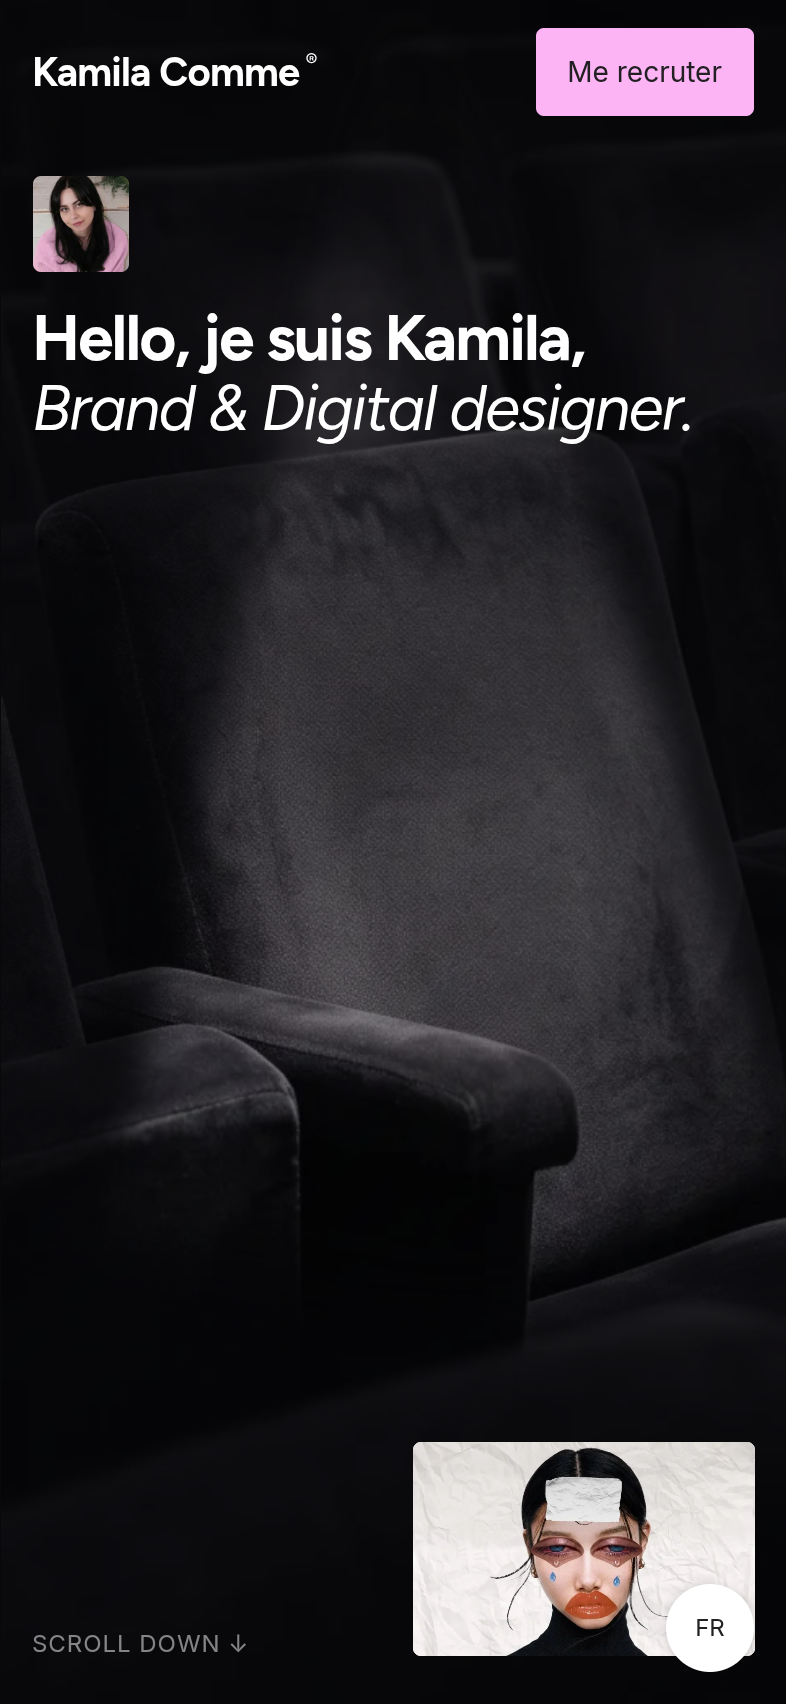
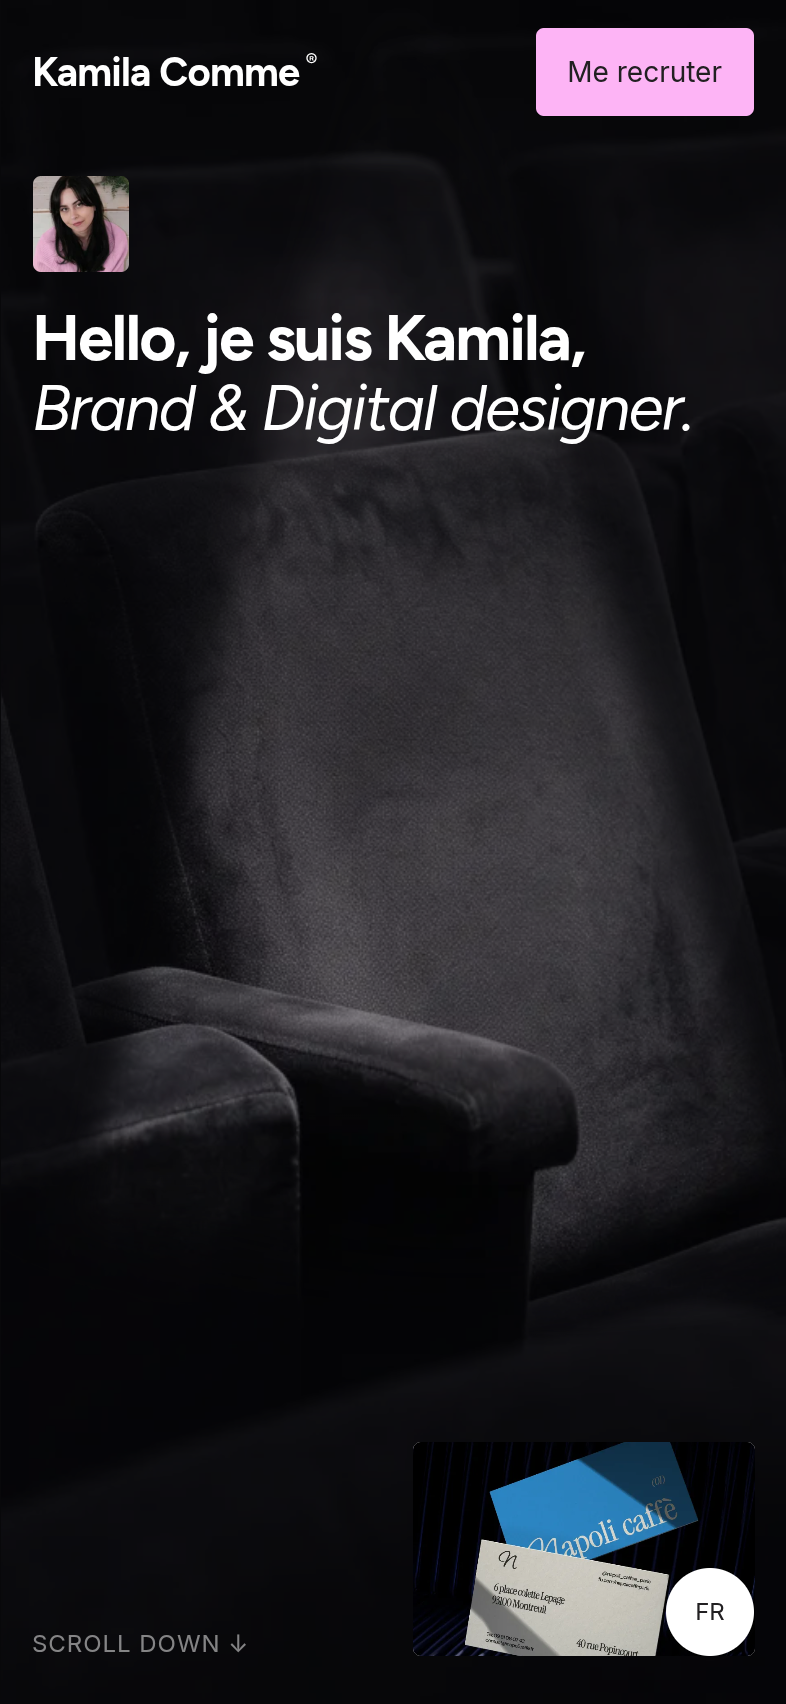
fix: align mobile language switcher with hero media

Changed region(s): [[0.5191, 0.8398, 0.9771, 0.9953], [0.1221, 0.6532, 0.1832, 0.6843], [0.1832, 0.5599, 0.2137, 0.591]]

diff --git a/portfolio-controller.js b/portfolio-controller.js
@@ -587,6 +587,16 @@ class Component extends DCLogic {
         // resolve their own fixed gutters before this value is copied to the page root.
         const pageGutter = parseFloat(getComputedStyle(this.nav).getPropertyValue("--kc-nav-gutter"));
         if (Number.isFinite(pageGutter)) document.documentElement.style.setProperty("--kc-page-gutter", pageGutter.toFixed(3) + "px");
+        // The mobile Hero preview sits 24px above the phone frame's bottom edge,
+        // while the mobile page gutter is 16px. Keep the fixed language button on
+        // that existing preview edge; desktop/tablet already use the shared gutter.
+        let switchBottomGutter = pageGutter;
+        const mobilePreview = mobile && this.mHero && this.mHero.querySelector(".kc-mobile-hero-slideshow");
+        if (mobilePreview) {
+          const previewInset = parseFloat(getComputedStyle(mobilePreview).bottom);
+          if (Number.isFinite(previewInset)) switchBottomGutter = previewInset;
+        }
+        if (Number.isFinite(switchBottomGutter)) document.documentElement.style.setProperty("--kc-language-bottom-gutter", switchBottomGutter.toFixed(3) + "px");
         // the phone / tablet frame is centred in the window — the navbar has to ride
         // its top edge, not the window's, otherwise it floats above the design
         const boxH = mobile ? (this.devH ? this.devH * kFit : this.vhNow())

diff --git a/styles/language-switch.css b/styles/language-switch.css
@@ -2,7 +2,7 @@
   position: fixed;
   z-index: 510;
   right: calc(var(--kc-page-gutter, 32px) + env(safe-area-inset-right, 0px));
-  bottom: calc(var(--kc-page-gutter, 32px) + env(safe-area-inset-bottom, 0px));
+  bottom: calc(var(--kc-language-bottom-gutter, var(--kc-page-gutter, 32px)) + env(safe-area-inset-bottom, 0px));
   display: inline-flex;
   width: 44px;
   height: 44px;

diff --git a/docs/PROJECT-STATUS.md b/docs/PROJECT-STATUS.md
@@ -51,7 +51,7 @@ Phase 5 architecture and incremental implementation sequence are documented in [
 
 **10A read-only responsive design research input:** The user's Figma page [Responsive — node 408:8055](https://www.figma.com/design/9vt2ATXB0UTz1sPESCNmWh/For-Claude?node-id=408-8055) is a design input, not an instruction to implement every frame. Once M10A is authorized, inspect its progressive Navbar, Hero, Tickets, About-card and Contact/Footer stages. Extract actual stage and DOM structures, annotations, Auto Layout decisions, dimensions, spacing and component visibility changes; map each to current Phase 5 behavior and its geometry/scroll owner. Analyze width- and height-constrained behavior separately, identify reusable responsive behaviors and simplification opportunities, and group frames into the smallest reasonable set of content-driven modes. Distinguish production requirements (practical supported mobile minimum 320px) from exploratory 50px width/height stress concepts. Assess whether current profile selection, sticky regions and scroll controllers can support candidate modes without competing ownership. Browser-check [emotion-agency.com](https://emotion-agency.com/), [esrbespoke.au](https://www.esrbespoke.au/) and [apple.com](https://www.apple.com/) at bounded standard and extreme shapes; record only behavior verified in the browser, with viewport conditions, and derive general principles without copying designs or inferring inaccessible behavior. Use a bounded Playwright/Codex subagent workflow for continuous resize evidence, with non-overlapping read-only assignments and one coordinator; report measurements, screenshots, severity and responsible owner. Deliver an architecture proposal, responsive behavior matrix, risks and minimal-change recommendations for user approval before M10B. No code changes, agents, broad tests or reference updates are authorized by this research brief.
 
-**Milestone 8 implementation and review:** The shared page template emits one semantic anchor for both static locales. The existing build supplies `/en/` + `FR` + a French accessible name, or `/` + `EN` + an English accessible name. `styles/language-switch.css` owns its fixed lower-right 44px circle and visible keyboard focus. An initial wide-desktop comparison exposed a 2.5px mismatch: at 1905×963, the existing desktop scene scale grows the effective 32px navbar/Hero gutter to 34.56px, while a hard-coded switch offset stayed at 32px. The existing `portfolio-controller.js` geometry pass now publishes the already-resolved navbar gutter for the fixed link to use; at 1905×963 the switch now aligns with the Hire edge exactly and Hero preview edge within 0.05px, while 1440×900 remains exactly aligned at 32px. Tablet resolves to 32px, mobile to 16px, and safe-area insets are added. The same existing controller listener enriches the ordinary link with the matching profile section hash and saves the scroll position through its existing `kc-scroll` restoration path; no translation controller or duplicate nav was added. The current FR/EN pages remain static generated routes. Eight focused Playwright cases pass for desktop, tablet portrait/landscape and mobile in both languages, including resized desktop widths through 1920px. They verify direct switching both ways, Projects/About section retention, bounds/gutters/type/no scaling, keyboard activation/focus, Hero-preview alignment, project-title clearance, Footer links and legal-dialog stacking. Screenshots are review-only and historical references remain unchanged: [Milestone 8 preview](phase-5-milestone8-review/README.md). **Visual approval is pending; do not mark M8 complete or start M9 until it is received.**
+**Milestone 8 implementation and review:** The shared page template emits one semantic anchor for both static locales. The existing build supplies `/en/` + `FR` + a French accessible name, or `/` + `EN` + an English accessible name. `styles/language-switch.css` owns its fixed lower-right 44px circle and visible keyboard focus. A wide-desktop comparison exposed a 2.5px mismatch: at 1905×963, the existing scene scale grows the effective 32px navbar/Hero gutter to 34.56px, while the switch offset stayed at 32px. The existing `portfolio-controller.js` geometry pass now shares the resolved navbar gutter with the link; it matches the Hire edge exactly and Hero preview edge within 0.05px, with 1440×900 still aligned at 32px. A second check found the mobile Hero slideshow is positioned 24px above the viewport bottom while the switch used the 16px mobile page gutter, so it extended 8px below the slideshow. The existing controller now passes the mobile slideshow's authored bottom inset to the fixed link. At 393×852 and Galaxy Z Fold 6 emulation 412×968, its edges match the slideshow exactly; tablet portrait (834×1112), landscape (1194×834), narrow (560×800) and short (716×555) samples also match their 32px preview/page inset. Safe-area insets remain included. The same controller listener enriches the ordinary link with a matching profile section hash and saves scroll position through the existing `kc-scroll` restoration path; there is no translation controller or duplicate nav. The current FR/EN pages remain static generated routes. Focused Playwright checks cover desktop, tablet portrait/landscape and mobile in both languages, including resizing through desktop widths to 1920px, two-way switching, Projects/About retention, bounds/gutters, keyboard activation/focus, all active Hero preview edges, project-title clearance, Footer links and legal-dialog stacking. Review captures are in [the Milestone 8 preview](phase-5-milestone8-review/README.md); historical references remain unchanged. **Visual approval is pending; do not mark M8 complete or start M9 until it is received.**
 
 **Deferred Projects extreme-short feasibility and decision:** Browser-only prototypes confirmed that the existing six desktop iframe ticket nodes can be placed in natural vertical flow without duplicating the ticket template; the existing iframe/rail geometry owner can restore horizontal mode after resize, and media, links and About boundary remained functional in the prototype. Current short-height clipping occurs because the sticky/viewport-locked rail is mapped to horizontal travel while the viewport clips ticket height. The principal unresolved engineering risk is scroll anchoring during mode changes: preserving raw `scrollY` is insufficient when section geometry changes. The transition must keep the active project in view, or retain the About position if the visitor is already there, while recalculating section height and resuming the existing scroll mapping. This three-mode interaction is approved in principle only and scheduled for 10B after M6–M9. It is not implemented, committed or visually accepted.
 

diff --git a/docs/phase-5-milestone8-review/README.md b/docs/phase-5-milestone8-review/README.md
@@ -9,6 +9,7 @@ This is a review-only capture set for the current Milestone 8 implementation. Th
 | Tablet landscape | 1194×834 | [tablet-landscape-fr.png](tablet-landscape-fr.png) | [tablet-landscape-en.png](tablet-landscape-en.png) |
 | Tablet portrait | 834×1112 | [tablet-portrait-fr.png](tablet-portrait-fr.png) | [tablet-portrait-en.png](tablet-portrait-en.png) |
 | Mobile | 393×852 | [mobile-fr.png](mobile-fr.png) | [mobile-en.png](mobile-en.png) |
+| Galaxy Z Fold 6 emulation | 412×968 | [mobile-galaxy-fr.png](mobile-galaxy-fr.png) | [mobile-galaxy-en.png](mobile-galaxy-en.png) |
 
 To review the interactive preview from the Phase 5 checkout on Ubuntu:
 
@@ -22,4 +23,4 @@ PORT=8032 node tests/runtime/server.mjs
 
 Then open `http://127.0.0.1:8032/` for French or `http://127.0.0.1:8032/en/` for English and resize the browser as desired. Use `Ctrl+C` in the server terminal to stop it.
 
-The button is a single 44×44px fixed semantic link. Its right and bottom insets now follow the resolved navbar page-gutter value, with safe-area insets added when present. At 1905×963 CSS px, the desktop scene scale makes the shared effective gutter 34.56px. Before the alignment correction, the fixed 32px switch inset extended about 2.5px past both the Hero preview and Hire button edges. It now matches the Hire edge exactly and the preview edge within 0.05px; the 1440×900 offsets remain exactly 32px. Tablet resolves to 32px and mobile to 16px. The focused browser checks cover both switching directions, corresponding Projects/About anchors, preserved scroll position, keyboard activation/focus, resizing through wide desktop widths, responsive bounds, Hero-preview alignment, project-title clearance, Footer links and legal-dialog stacking.
+The button is a single 44×44px fixed semantic link. Its right inset follows the resolved page gutter, with safe-area insets added when present. Desktop/tablet bottom placement uses that same resolved gutter; mobile bottom placement follows the existing Hero slideshow's 24px inset (the mobile right page gutter is 16px). At 1905×963 CSS px, the desktop scene scale makes the shared effective gutter 34.56px. Before the wide-desktop correction, the fixed 32px switch inset extended about 2.5px past both the Hero preview and Hire button edges; it now matches the Hire edge exactly and the preview edge within 0.05px. A second measurement found the mobile Hero preview is 24px above the frame bottom while the fixed link was only 16px above it, leaving an 8px spill. The corrected switch aligns with the mobile preview at 393×852 and 412×968; tablet portrait, landscape and narrow samples already share the same 32px preview/page inset. Focused browser checks cover both switching directions, corresponding Projects/About anchors, preserved scroll position, keyboard activation/focus, resizing, responsive bounds, Hero-preview alignment, project-title clearance, Footer links and legal-dialog stacking.
